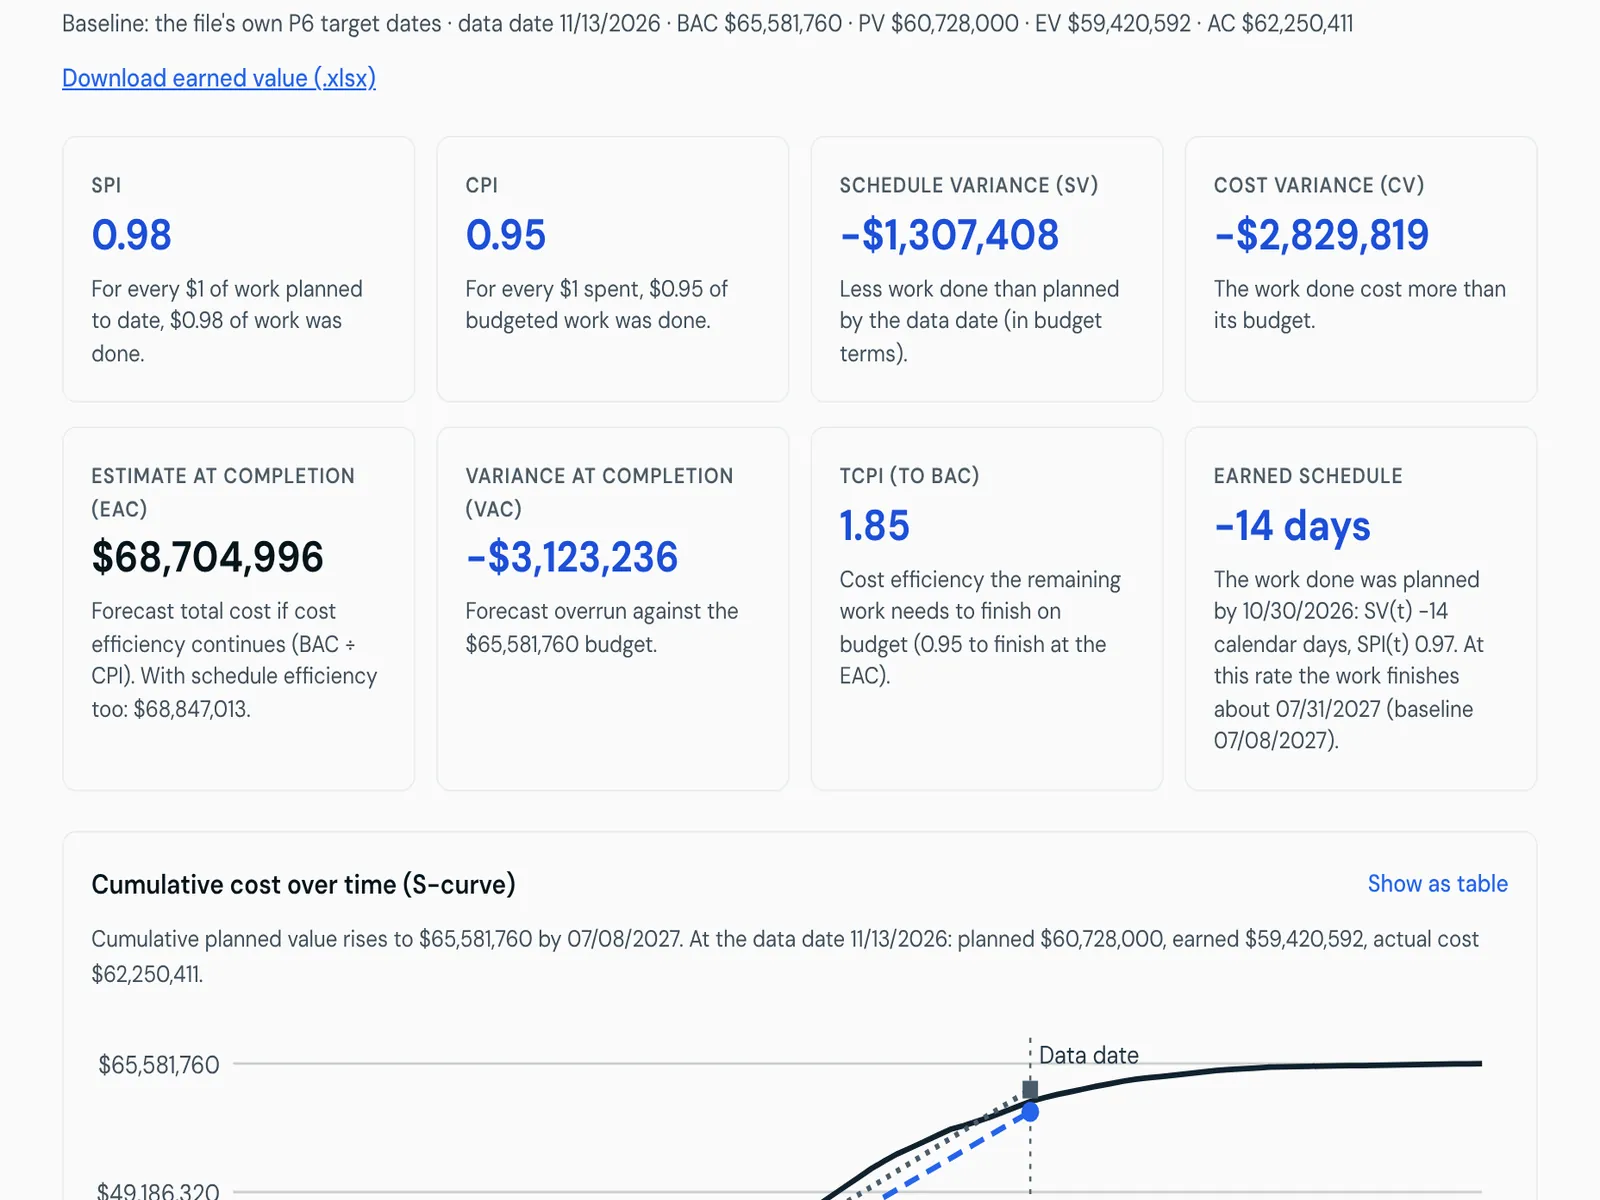
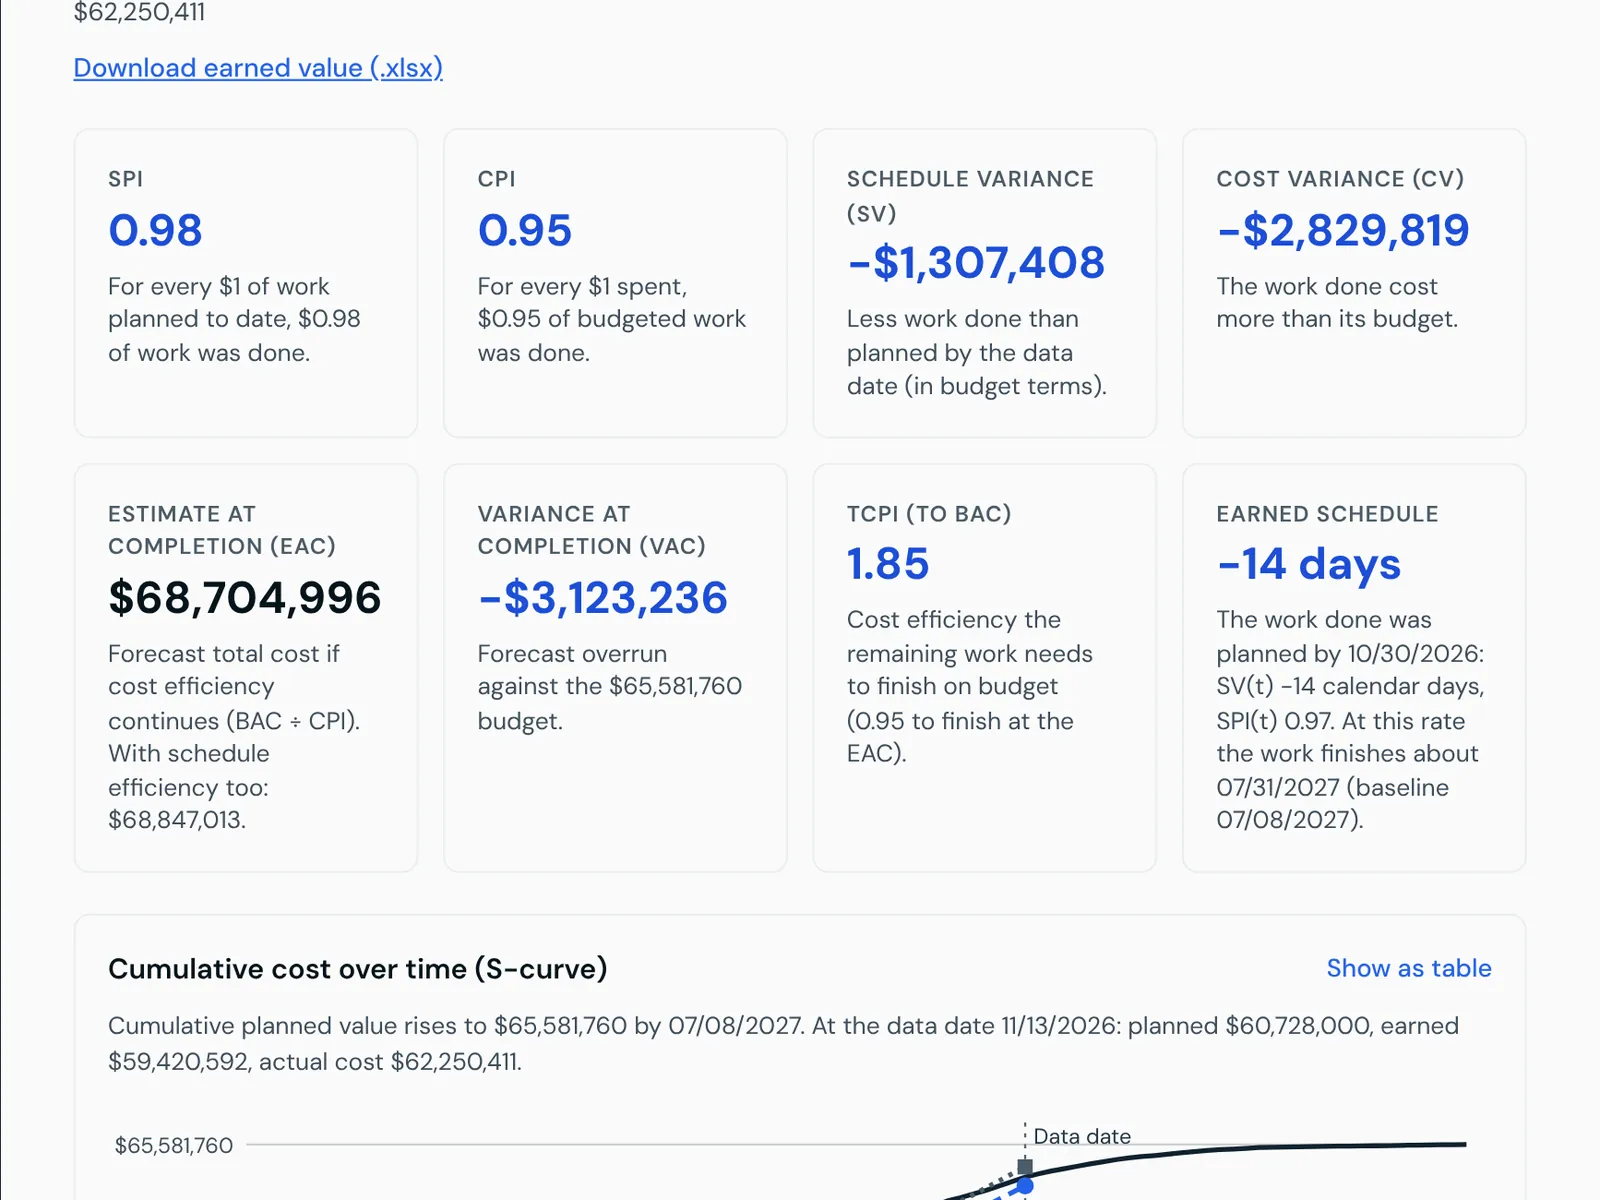
Landing page: zoomed screenshots, one sample project, a report picture
Follow-up to the third independent score (7.25 of 10), which listed three
design fixes still open:

- Feature and audience screenshots are retaken zoomed in on the panel the text
  describes, and start below the page header, so their text is readable and no
  project title is cut off
- The F9 illustration uses the same project type and finish date as the
  screenshots, so the page tells one story
- Reports shows a real generated Executive Schedule Summary, and its text no
  longer says reports are "drafted by AI": with AI off they are written by rule
- The first evidence item is open by default
- Fix: on a 390px phone the Reports section made the page 5px too wide

Claude-Session: https://claude.ai/code/session_012jBERRm6i7LpbcKwP1m2yW

diff --git a/src/components/Landing.tsx b/src/components/Landing.tsx
@@ -141,7 +141,7 @@ export default function Landing({ inviteOnly, accessRequestEmail }: { inviteOnly
 
       {/* How it works: the four steps beside the F9 demo */}
       <section id="how-it-works" className="max-w-6xl mx-auto px-6 py-24 md:py-36 scroll-mt-12">
-        <div className="grid lg:grid-cols-2 gap-12 lg:gap-16 items-center">
+        <div className="grid grid-cols-1 lg:grid-cols-2 gap-12 lg:gap-16 items-center">
           <Reveal>
             <h2 className="text-[36px] md:text-[52px] font-semibold tracking-[-0.04em] text-navy-950 leading-[1.05]">Press F9. Get a finish date you can defend.</h2>
             <ol className="mt-8 space-y-6">
@@ -166,26 +166,27 @@ export default function Landing({ inviteOnly, accessRequestEmail }: { inviteOnly
       </section>
 
       {/* Reports */}
-      <section id="reports" className="bg-white border-y border-warm-200">
-        <div className="max-w-6xl mx-auto px-6 py-24 md:py-28 grid md:grid-cols-[1fr_1.2fr] gap-12 md:gap-20 items-start">
+      <section id="reports" className="bg-white border-y border-warm-200 scroll-mt-12">
+        <div className="max-w-6xl mx-auto px-6 py-24 md:py-32 grid grid-cols-1 lg:grid-cols-[2fr_3fr] gap-10 lg:gap-16 items-center">
           <Reveal>
-            <h2 className="text-[32px] md:text-[44px] font-semibold tracking-[-0.035em] text-navy-950 leading-tight">Reports, drafted from your numbers.</h2>
-            <p className="text-[16px] md:text-[17px] text-warm-600 leading-relaxed mt-4">Drafted by AI from your schedule’s calculated figures. Review them before you send them: the figures come from the schedule, the wording from the model.</p>
+            <h2 className="text-[32px] md:text-[44px] font-semibold tracking-[-0.035em] text-navy-950 leading-tight">Reports, written from your numbers.</h2>
+            <p className="text-[16px] md:text-[17px] text-warm-700 leading-relaxed mt-4">Each report is built from the schedule’s calculated figures and says where every number came from. With AI off, RunF9 writes it by rule; with AI on, the model drafts the wording and the figures stay the engine’s.</p>
+            <ul className="mt-6 space-y-3">
+              {[
+                ['Executive Schedule Summary', 'status, key dates, findings and recommendations'],
+                ['Critical & Near-Critical Paths', 'driving activities, float and low-float paths'],
+                ['Baseline vs Current Variance', 'current dates against the baseline in your file'],
+                ['Schedule QA/QC Audit', 'the DCMA 14-Point results, with issues and fixes'],
+                ['Time Impact Analysis', 'the delay event, its fragnet and the impact on each milestone'],
+              ].map(([t, d]) => (
+                <li key={t} className="flex gap-2.5 text-[16px] text-warm-700 leading-snug">
+                  <span aria-hidden className="mt-[9px] h-1.5 w-1.5 flex-shrink-0 rounded-full bg-accent-600" />
+                  <span><span className="font-semibold text-navy-950">{t}:</span> {d}.</span>
+                </li>
+              ))}
+            </ul>
           </Reveal>
-          <ul className="divide-y divide-warm-200 border-y border-warm-200">
-            {[
-              ['Executive Schedule Summary', 'Status, key dates, findings and recommendations in plain language.'],
-              ['Critical & Near-Critical Paths', 'Driving activities, float and low-float paths from the CPM calculation.'],
-              ['Baseline vs Current Variance', 'Compares current dates with the baseline stored in your P6 or MS Project file.'],
-              ['Schedule QA/QC Audit', 'The DCMA 14-Point results, with the issues and suggested fixes.'],
-              ['Time Impact Analysis', 'The delay event, its fragnet, the impact on each milestone and the driving path before and after, with input and result hashes.'],
-            ].map(([t, d], i) => (
-              <Reveal as="li" key={t} delay={i * 80} className="py-5">
-                <div className="text-[17px] font-semibold text-navy-950">{t}</div>
-                <div className="text-[15px] text-warm-600 mt-1">{d}</div>
-              </Reveal>
-            ))}
-          </ul>
+          <Reveal><Shot name="report" label="RunF9 · Reports · Executive Schedule Summary" alt="An Executive Schedule Summary in RunF9 for the sample data center, with a provenance table: the source file, its SHA-256 hash, the data date and the progress mode." /></Reveal>
         </div>
       </section>
 
@@ -240,8 +241,8 @@ export default function Landing({ inviteOnly, accessRequestEmail }: { inviteOnly
             inviteOnly
               ? ['3 briefs every morning', 'The Daily Brief is written three ways from the same calculation: for the project manager, for the field and for the client. The client version leaves out internal risk wording. An automated test checks all three on every code change.']
               : ['$0 to start', 'The Free plan has no time limit and asks for no payment details. Plan limits are listed in the pricing table and enforced by the server.'],
-          ].map(([term, def]) => (
-            <details key={term} className="group border-b border-warm-200">
+          ].map(([term, def], i) => (
+            <details key={term} open={i === 0} className="group border-b border-warm-200">
               <summary className="flex items-center justify-between gap-4 py-5 cursor-pointer list-none text-[17px] font-semibold text-navy-950">
                 {term}
                 <ChevronDown size={20} className="text-warm-600 transition-transform duration-300 group-open:rotate-180 flex-shrink-0" aria-hidden />

diff --git a/src/components/landing/Pillars.tsx b/src/components/landing/Pillars.tsx
@@ -7,20 +7,20 @@ import { Shot } from './Sections'
 const PILLARS = [
   { key: 'build', title: 'Build.', lead: 'A baseline from a conversation.', text: 'RunF9 interviews you like a senior scheduler (scope, permits, long-lead equipment, site and calendar) and builds a CPM schedule with a written basis for every duration and link.',
     points: ['Questions are ranked by how far each answer can move your finish date.', 'Or upload a P6, MS Project, Excel or PDF schedule you already have.'],
-    shot: 'interview', label: 'RunF9 · Interview', alt: 'The interview in RunF9 for a sample medical office building: answered questions such as the state, drawing completeness, delivery method and work week.' },
+    shot: 'interview', label: 'RunF9 · Interview', alt: 'The interview in RunF9 for a sample project: answered questions such as the state, drawing completeness, delivery method, work week and the daily cost of late completion.' },
   { key: 'check', title: 'Check.', lead: 'All 14 DCMA checks, every time.', text: 'Upload a P6 or MS Project file. Each failing check lists the activities involved and a suggested fix, with the published thresholds or your organization’s own.',
     points: ['Critical path and float from forward and backward CPM passes, with calendars, lags and constraints.', 'Checks that need data the file does not have are reported as not applicable, never as passed.'],
     shot: 'quality', label: 'RunF9 · Quality', alt: 'The Quality page in RunF9 for the sample data center: the failing DCMA checks listed first (negative float, missed tasks, CPLI), with the activities behind each one.' },
   { key: 'forecast', title: 'Forecast.', lead: 'Know the finish before it moves.', text: 'Monte Carlo risk analysis over the full network gives P50 and P80 finish dates. When a date slips, recovery options are re-scheduled and priced from your labor cost.',
     points: ['Every open change and reported delay is run against the real network as a what-if.', 'What-ifs change nothing in the schedule until a person approves an edit.'],
-    shot: 'risk', label: 'RunF9 · Evaluation', alt: 'The Evaluation page in RunF9 for a sample medical office building: Monte Carlo P50 and P80 finish dates beside the quality score and DCMA result.' },
+    shot: 'risk', label: 'RunF9 · Evaluation', alt: 'The Evaluation page in RunF9 for a sample project: Monte Carlo P50 and P80 finish dates beside the quality score and DCMA result, and the first finding that needs a decision.' },
 ]
 
 export default function Pillars() {
   return (
     <div className="space-y-20 md:space-y-32">
       {PILLARS.map((p, i) => (
-        <Reveal key={p.key} className={`grid ${i % 2 === 1 ? 'lg:grid-cols-[3fr_2fr]' : 'lg:grid-cols-[2fr_3fr]'} gap-10 lg:gap-16 items-center`}>
+        <Reveal key={p.key} className={`grid grid-cols-1 ${i % 2 === 1 ? 'lg:grid-cols-[3fr_2fr]' : 'lg:grid-cols-[2fr_3fr]'} gap-10 lg:gap-16 items-center`}>
           <div className={i % 2 === 1 ? 'lg:order-2' : ''}>
             <h3 className="text-[44px] md:text-[56px] font-semibold tracking-[-0.035em] text-navy-950 leading-none">{p.title}</h3>
             <p className="text-[21px] md:text-[24px] font-semibold tracking-[-0.015em] text-navy-950 mt-4">{p.lead}</p>

diff --git a/src/components/landing/F9Demo.tsx b/src/components/landing/F9Demo.tsx
@@ -11,14 +11,14 @@ import { prefersReducedMotion, useInView } from './motion'
 type Act = { name: string; es: number; dur: number; crit: boolean; float?: number }
 const SPAN = 104
 const ACTS: Act[] = [
-  { name: 'Excavation', es: 0, dur: 14, crit: true },
-  { name: 'Foundations', es: 14, dur: 16, crit: true },
-  { name: 'Steel erection', es: 30, dur: 28, crit: true },
-  { name: 'MEP rough-in', es: 40, dur: 30, crit: false, float: 10 },
-  { name: 'Enclosure', es: 58, dur: 22, crit: true },
-  { name: 'Finishes', es: 80, dur: 24, crit: true },
+  { name: 'Sitework', es: 0, dur: 14, crit: true },
+  { name: 'Structure', es: 14, dur: 16, crit: true },
+  { name: 'Switchgear', es: 30, dur: 28, crit: true },
+  { name: 'Envelope', es: 40, dur: 30, crit: false, float: 10 },
+  { name: 'Energization', es: 58, dur: 22, crit: true },
+  { name: 'Commissioning', es: 80, dur: 24, crit: true },
 ]
-const STATUS = ['Ready to run', 'Forward pass: early dates…', 'Backward pass: critical path found', '5 critical activities · finish 09/24/2027']
+const STATUS = ['Ready to run', 'Forward pass: early dates…', 'Backward pass: critical path found', '5 critical activities · finish 08/17/2027']
 
 export default function F9Demo() {
   const { ref, inView } = useInView<HTMLDivElement>(0.3)
@@ -62,10 +62,10 @@ export default function F9Demo() {
         <div className="flex items-center justify-between mb-5">
           <div>
             <div className="text-[12px] font-medium text-warm-600">Sample schedule</div>
-            <div className="text-[15px] font-semibold text-navy-950">Two-story office · CPM</div>
+            <div className="text-[15px] font-semibold text-navy-950">Data center · CPM</div>
           </div>
           <div className={`text-[12.5px] font-semibold rounded-full px-3 py-1 transition-all duration-500 ${phase === 3 ? 'bg-accent-100 text-accent-600 opacity-100' : 'bg-warm-100 text-warm-600'}`}>
-            {phase === 3 ? 'Finish 09/24/2027' : 'Finish —'}
+            {phase === 3 ? 'Finish 08/17/2027' : 'Finish —'}
           </div>
         </div>
 

diff --git a/src/components/landing/Sections.tsx b/src/components/landing/Sections.tsx
@@ -141,7 +141,7 @@ export function Audiences() {
         <Reveal className="mt-10">
           <TabList label="Who RunF9 is for" items={AUDIENCES} prefix="who" panel="who-panel" tabs={tabs} className="mx-auto" />
           <div id="who-panel" role="tabpanel" aria-labelledby={`who-tab-${a.id}`} className="mt-10">
-            <div key={a.id} className="rise-in grid lg:grid-cols-[2fr_3fr] gap-10 lg:gap-14 items-center">
+            <div key={a.id} className="rise-in grid grid-cols-1 lg:grid-cols-[2fr_3fr] gap-10 lg:gap-14 items-center">
               <div>
                 <h3 className="text-[26px] md:text-[34px] font-semibold tracking-[-0.03em] text-navy-950 leading-tight">{a.title}</h3>
                 <ul className="mt-6 space-y-4">

diff --git a/docs/marketing/CLAIMS-REGISTER.md b/docs/marketing/CLAIMS-REGISTER.md
@@ -42,6 +42,7 @@ Every public claim about RunF9 (website, sales decks, proposals) must be listed 
 | Product screenshots on the landing page (`public/landing/*.webp`, 11/13/2026) and "the sample data center project that every account can open" | ✅ | Unedited captures of the Today, Overview, Earned value, Schedule and Quality pages for the built-in sample data center (`src/lib/planning/sample-datacenter.ts`, opened by `DataCenterSampleButton`), and of the Interview and Evaluation tabs for the built-in sample plan ("Open a sample project", `POST /api/plans { sample: true }`), on a local server in a new account. They are cropped (the side menu, and the pinned project header on the data center pages) and not otherwise altered. The round-trip caption was shortened on 11/13/2026 to "of drift after a P6 or MS Project round trip, in our test set"; the evidence is the round-trip row above. Retake them when those pages change |
 | "3 briefs every morning: project manager, field and client" (figures band, private beta mode; replaces "Beta", which was not a figure) | ✅ | `daily-brief.test.ts`: "writes a version for the PM, the field and the client; the client never sees internal risk wording" |
 | "What-ifs change nothing in the schedule until a person approves an edit"; "Checks that need data the file does not have are reported as not applicable, never as passed" (11/13/2026) | ✅ | What-ifs are recalculated in memory (`daily-brief.ts`; the page says "nothing is saved"); edits go through `approval.ts`. DCMA "n/a" per the first row of this table |
+| "Reports, written from your numbers … With AI off, RunF9 writes it by rule; with AI on, the model drafts the wording and the figures stay the engine's" and the report screenshot (11/13/2026; replaces "Reports, drafted from your numbers. Drafted by AI…", which was wrong for organizations with AI off) | ✅ | The Reports page with AI off states "reports are built by RunF9's rules directly from the schedule data, with no AI model", and the generated Executive Summary carries "Prepared by RunF9 from the schedule data (no AI model)" and a provenance table (source file, SHA-256, data date). The screenshot is that report for the sample data center. The F9 illustration on the page now uses the same project type and finish date as the screenshots; it remains labelled illustrative |
 | "Native P6 and MS Project files: import .xer and .xml with activities, logic, lags, constraints and calendars, and export the same formats" | ✅ | `src/lib/parsers/xer-parser.ts`, `xml-parser.ts`, `src/lib/export/xer.ts`, `msp-xml.ts`; tests in `xer-parser.test.ts`, `xml-parser.test.ts`, `formats.test.ts`, `export.test.ts`, `roundtrip.test.ts` |
 | "Questions are ranked by how far each answer can move your finish date" | ✅ | `src/lib/planning/adaptive.ts` re-schedules under each plausible answer; `adaptive.test.ts` |
 | "Each failing check lists the activities involved and a suggested fix" | ✅ | `DcmaCheck.offenders`; `src/lib/analysis/dcma-guidance.ts` |
